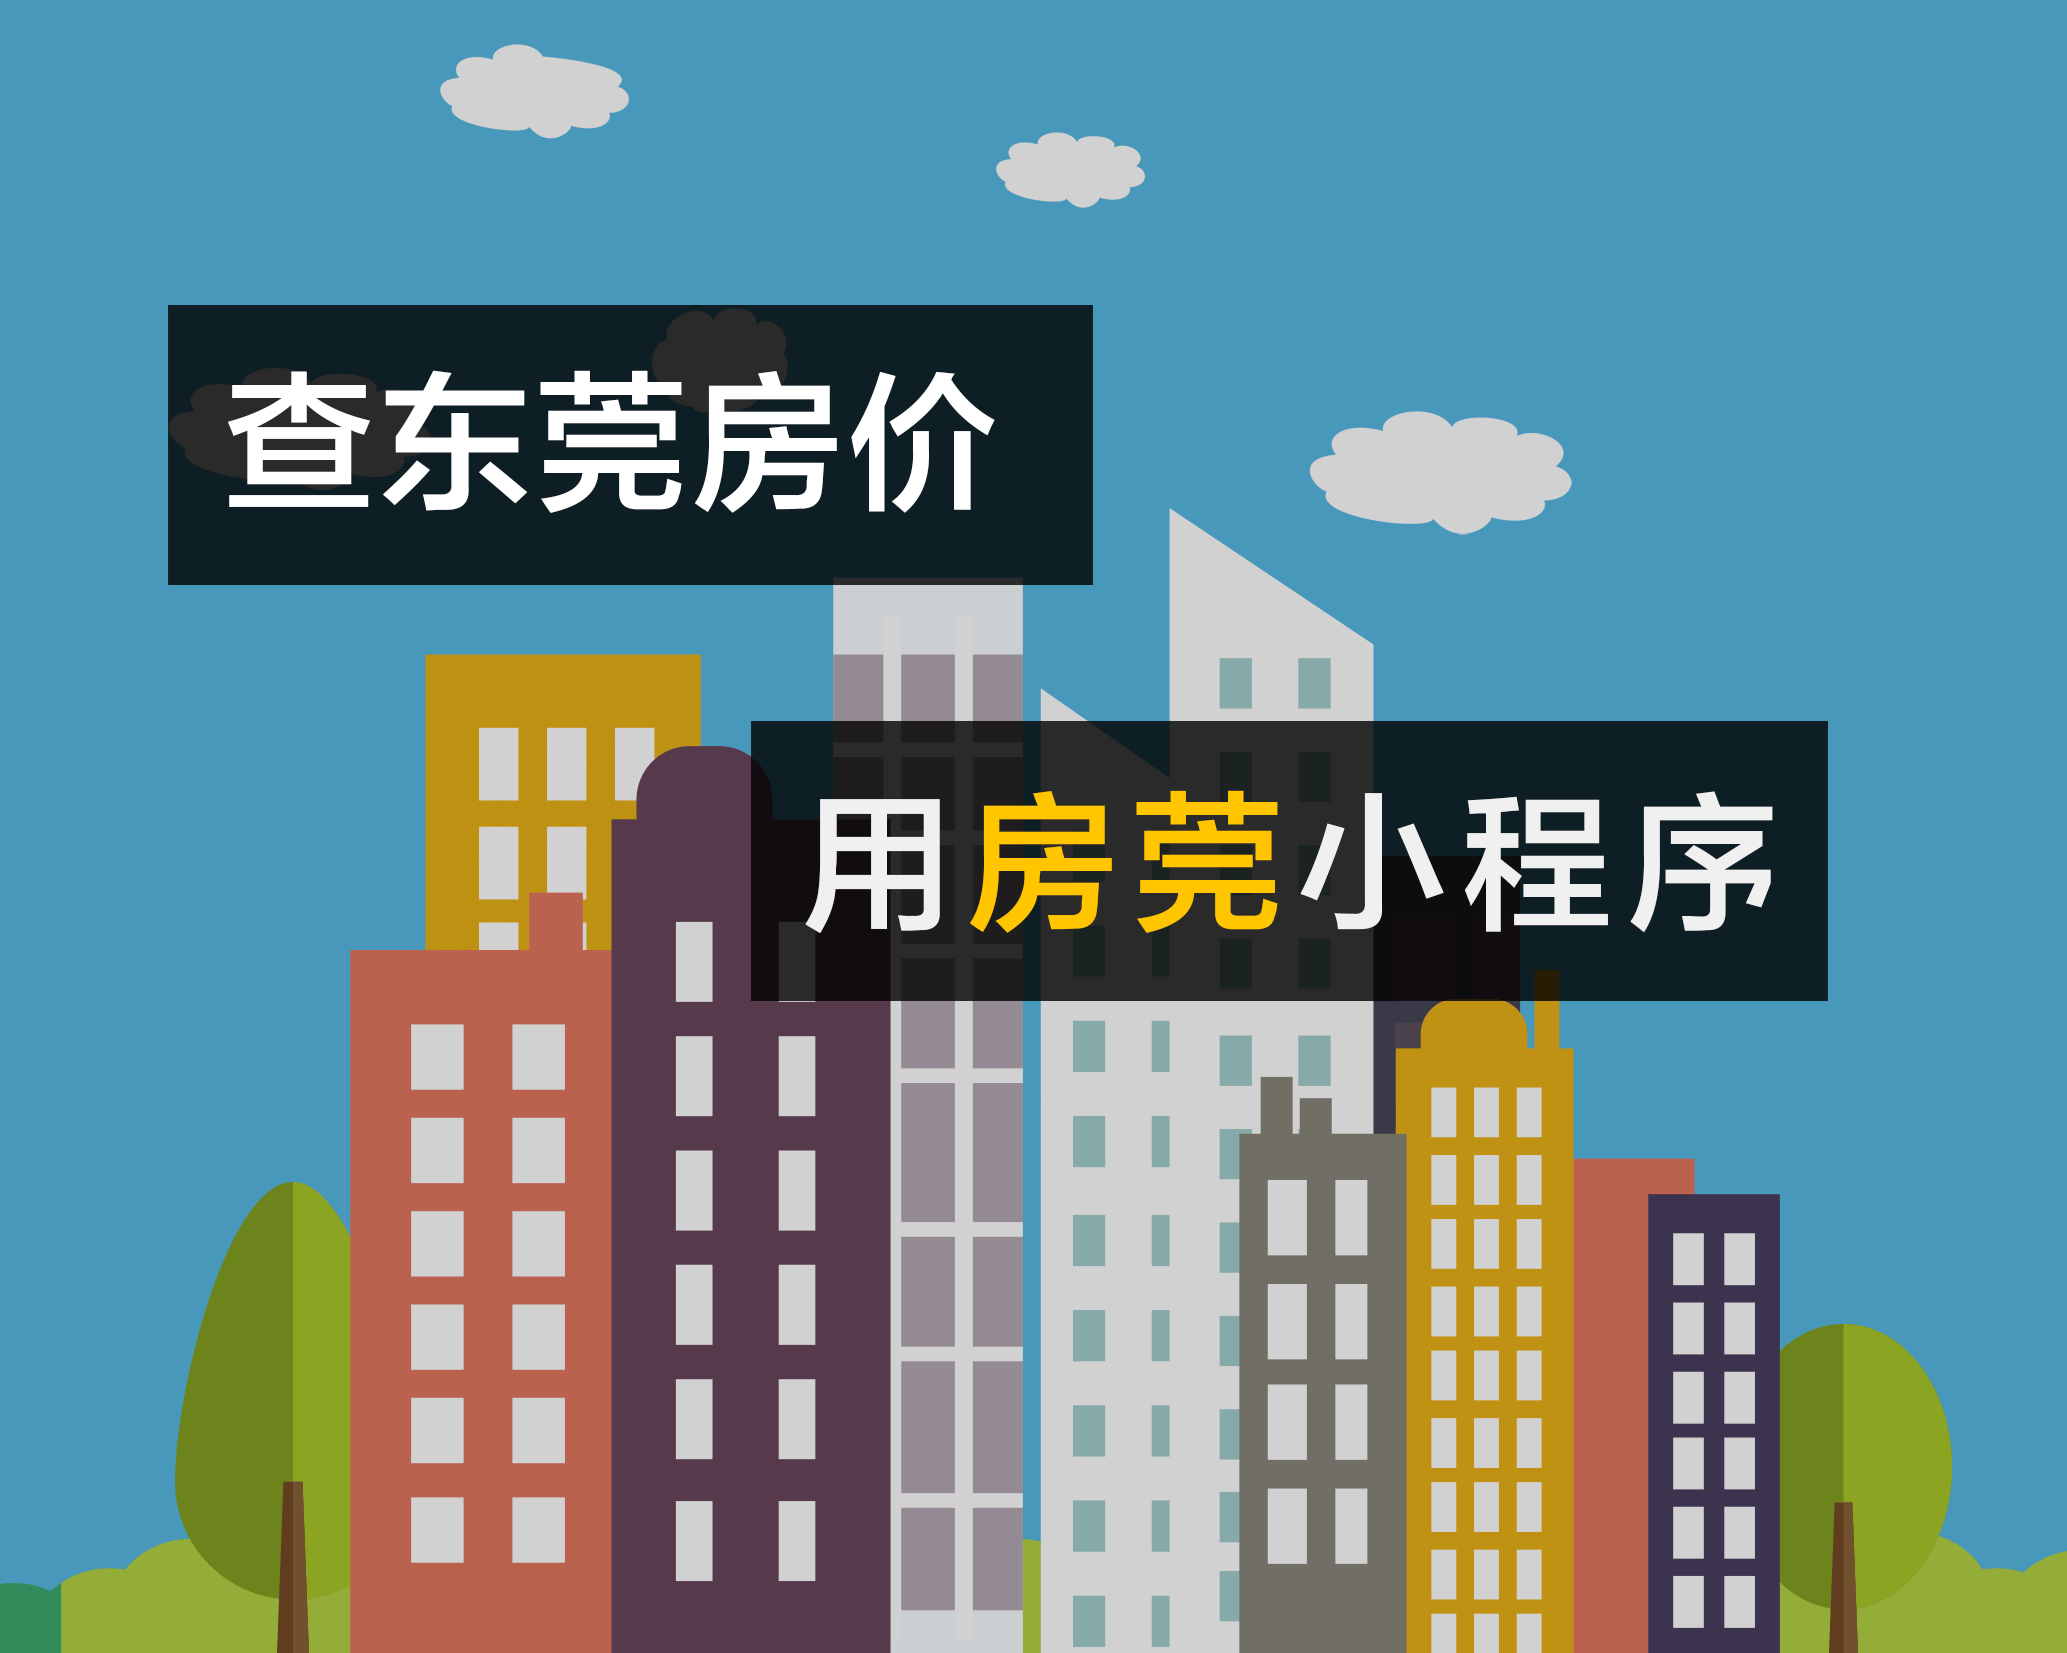
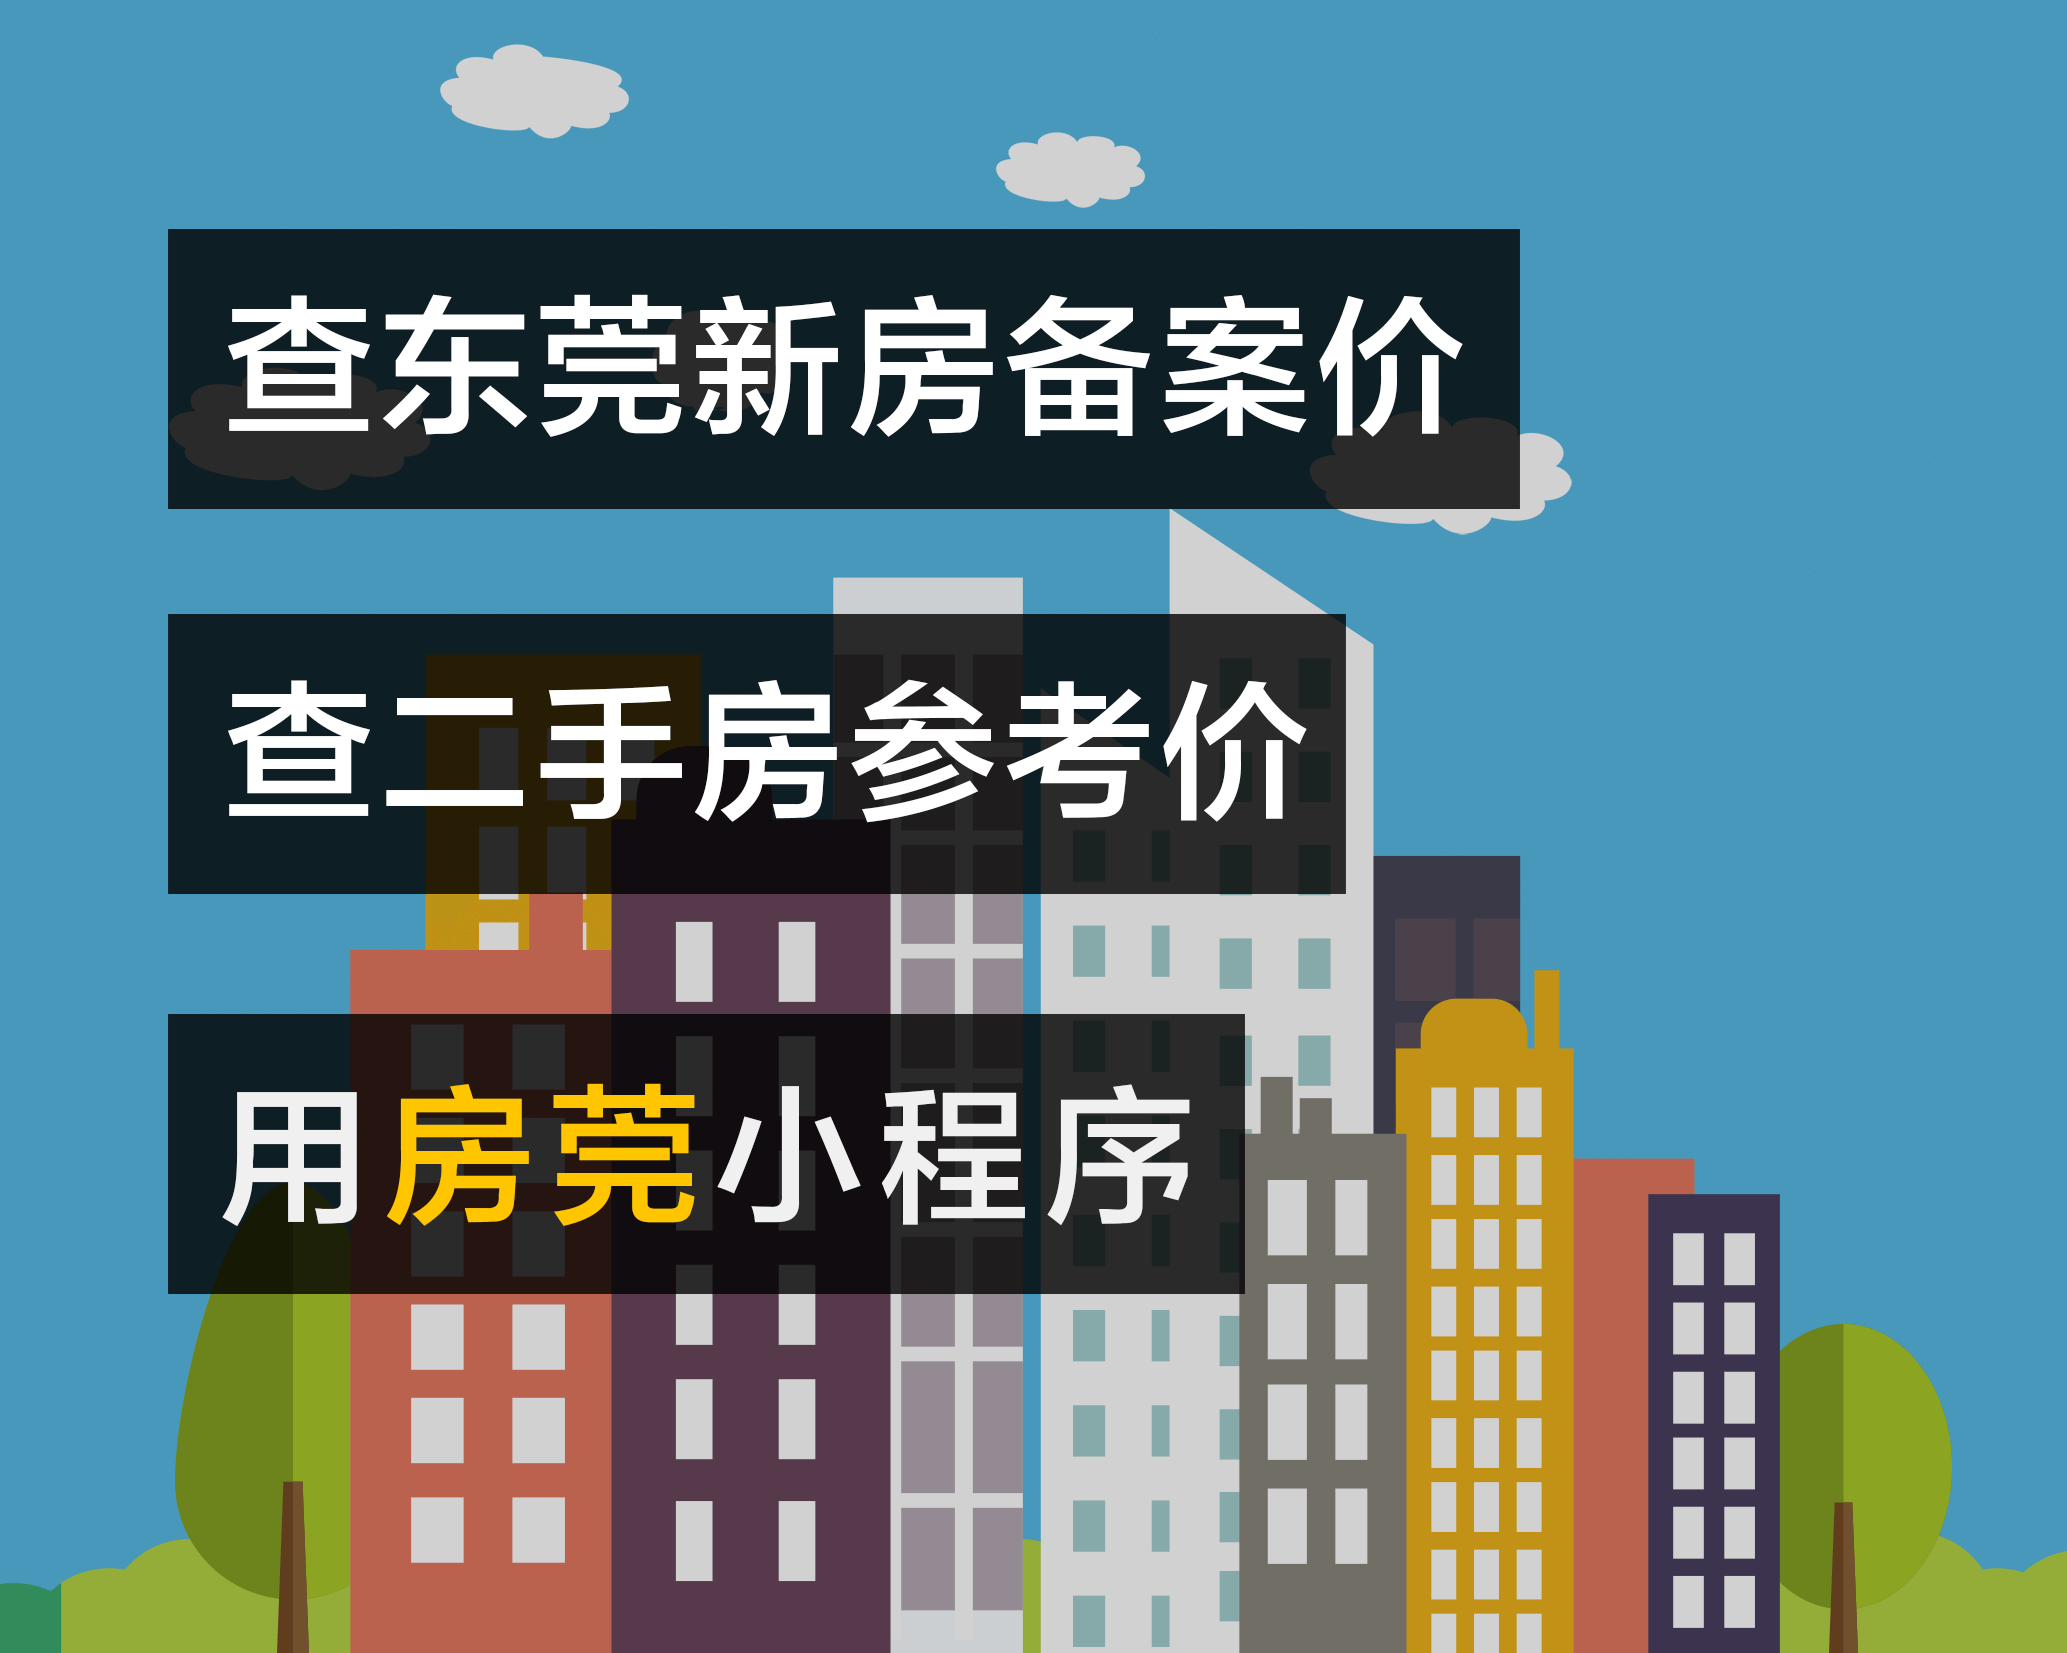
增加二手房参考价查询功能

diff --git a/pages/guide/index.js b/pages/guide/index.js
@@ -1,0 +1,94 @@
+const app = getApp()
+import { getGuidePrice } from '../../api/index.js'
+Page({
+
+  /**
+   * 页面的初始数据
+   */
+  data: {
+    list: [],
+    total: 0,
+    search: '',
+    sort: false
+  },
+
+  /**
+   * 生命周期函数--监听页面加载
+   */
+  onLoad: function (options) {
+    this.getData()
+  },
+
+  /**
+   * 用户点击右上角分享
+   */
+  onShareAppMessage: function () {
+    return app.share(this, {
+      title: '最新公布的东莞二手房参考价'
+    })
+  },
+
+  // 搜索
+  search() {
+    const list = this.data.list
+    let total = 0
+    for(let i=0; i<list.length; i++) {
+      if (list[i].name.search(this.data.search) != -1 || list[i].town.search(this.data.search) != -1) {
+        list[i].display = true
+        total++
+      } else {
+        list[i].display = false
+      }
+    }
+    this.setData({
+      total,
+      list,
+      sort: false
+    })
+  },
+
+  clear() {
+    this.setData({
+      search: ''
+    })
+    this.search()
+  },
+
+  // 排序
+  sort() {
+    let list = this.data.list
+    let sort = this.data.sort
+    if (sort === false || sort == 'asc') {
+      sort = 'desc'
+      // 降序
+      list.sort((x,y) => {
+        return y.price - x.price
+      })
+    } else if (sort == 'desc') {
+      sort = 'asc'
+      // 升序
+      list.sort((x,y) => {
+        return x.price - y.price
+      })
+    }
+
+    this.setData({
+      sort,
+      list
+    })
+  },
+
+  // 获取数据
+  getData() {
+    const that = this
+    getGuidePrice().then(res => {
+      for(let i=0;i<res.data.length;i++) {
+        res.data[i].display = true
+      }
+      that.setData({
+        list: res.data,
+        total: res.data.length
+      })
+    })
+  }
+})

diff --git a/api/index.js b/api/index.js
@@ -22,3 +22,11 @@ export function search(data) {
     method: 'POST'
   })
 }
+
+// 获取二手房指导价
+export function getGuidePrice(data) {
+  return request({
+    url: '/getGuidePrice',
+    data
+  })
+}

diff --git a/pages/index/index.js b/pages/index/index.js
@@ -89,5 +89,11 @@ Page({
     }).catch(msg => {
       console.error(msg)
     })
+  },
+
+  goGuidePrice() {
+    wx.navigateTo({
+      url: '/pages/guide/index',
+    })
   }
 })
